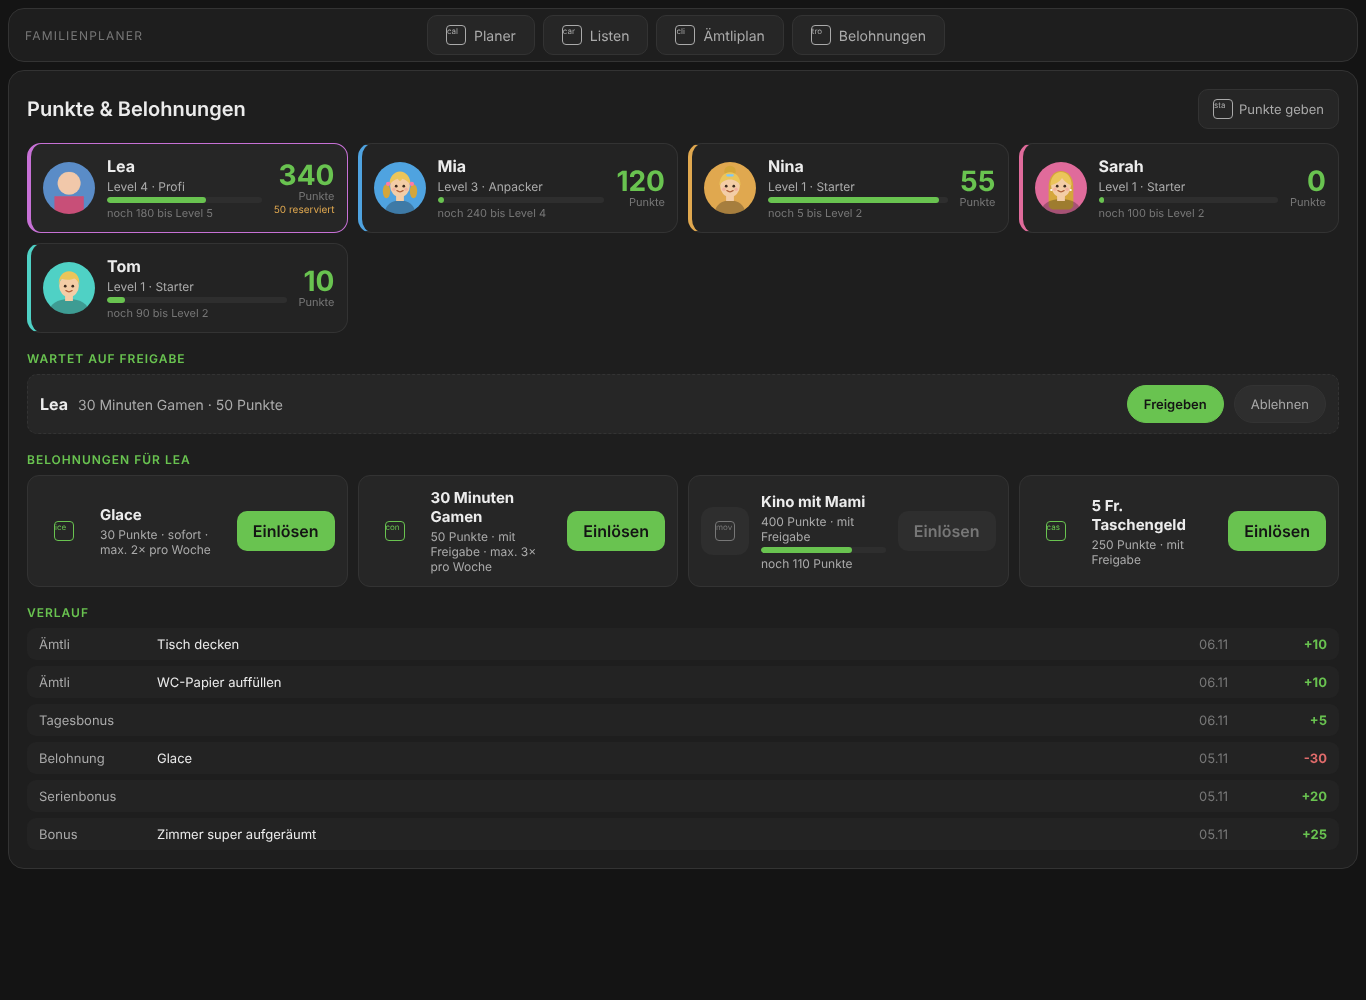
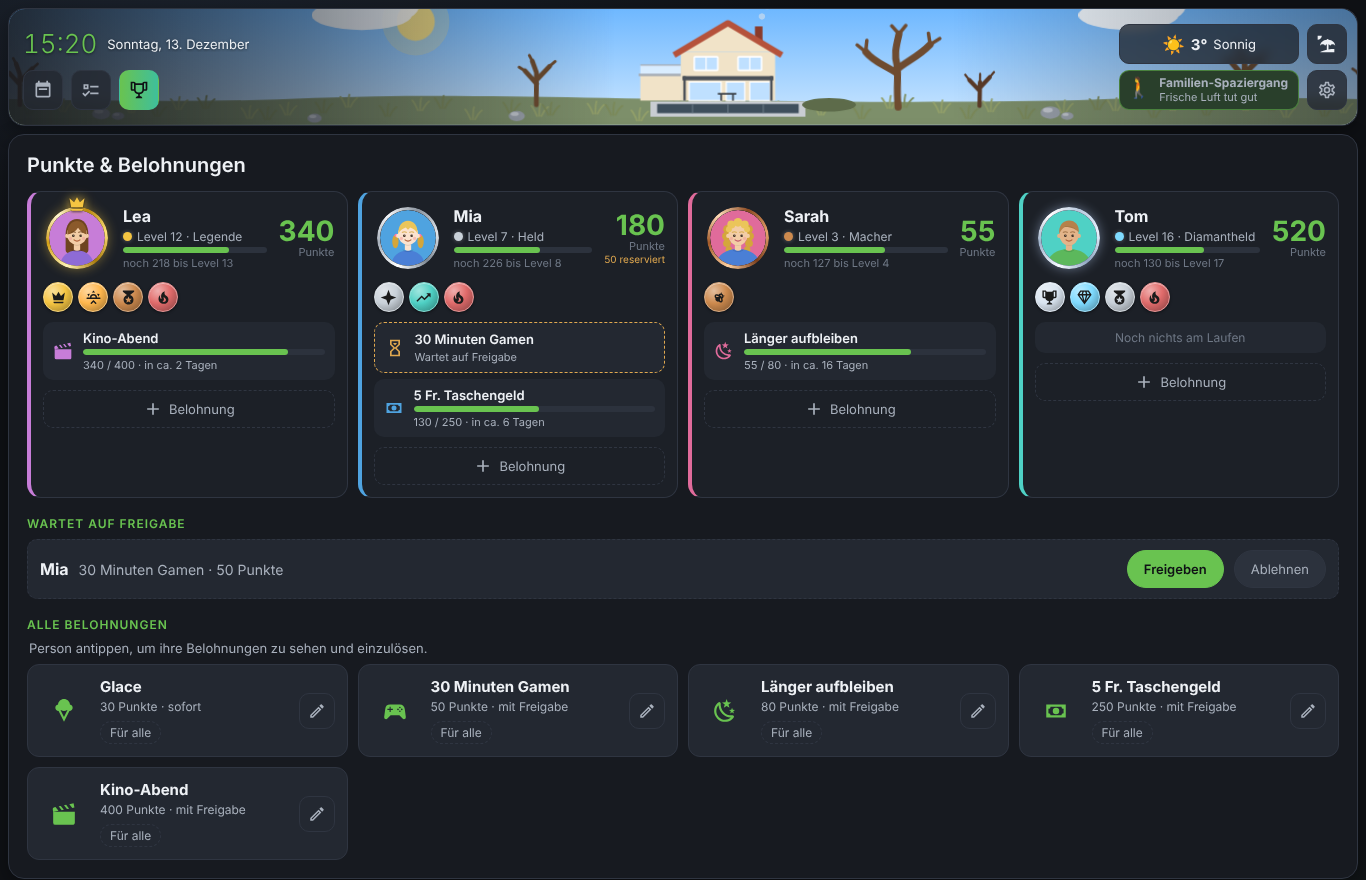
Docs: levels, level-up and easter egg, new rewards and level screenshots
Claude-Session: https://claude.ai/code/session_01SNL6Tmexe6UeWv6hf5jcH3

diff --git a/README.de.md b/README.de.md
@@ -11,8 +11,9 @@
 
 Der Familienplaner fürs Wandtablet: **Ämtli** mit Punkten und echten Belohnungen, **Termine und Stundenplan**
 jeder Person auf einen Blick, **Ferien**, die Ämtli automatisch pausieren, **Ansagen** über Alexa sobald jemand
-heimkommt – und **Einkaufs- und To-do-Listen, die sich selbst sortieren**. Alles wird in der Oberfläche
-eingerichtet, **kein YAML**.
+heimkommt – und **Einkaufs- und To-do-Listen, die sich selbst sortieren**. Oben zeigt ein **lebendiger Kopfbereich**
+euer Haus im echten Wetter und zur echten Tageszeit, durch die Jahreszeiten, Schweizer Bräuche und besondere Tage.
+Alles wird in der Oberfläche eingerichtet, **kein YAML**.
 
 🇬🇧 [English](README.md) · 🇩🇪 **Deutsch**
 
@@ -149,7 +150,12 @@ Pro Kind (oder Person, z. B. Studium/Arbeit):
 - **Zuverlässigkeit** in Prozent (30 Tage), farbiges Band pro Person.
 - **Faire Punkte** (Standard): Wer **alle** Ämtli des Tages erledigt, bekommt gleich viele Punkte (Standard 30) – egal ob 2 oder 6 Ämtli. Jedes erledigte Ämtli bringt sofort seinen Anteil; 3 von 6 erledigt = 50 % = 15 Punkte. Die Punkte im Ämtliplan wirken als Gewicht (ein schweres Ämtli mit 20 zählt doppelt so viel wie eines mit 10). Alternativ Modus *Pro Ämtli*: mehr Ämtli, mehr Punkte.
 - **Punkte**: zusätzlich **Tagesbonus** für einen ganz erledigten Tag, **Serienbonus** für jede 7-Tage-Serie. Wird ein Ämtli wieder geöffnet, werden die Punkte zurückgebucht.
-- **10 Level** von *Starter* über *Profi* und *Held* bis *Grossmeister* – mit Fortschrittsbalken. Eingelöste Punkte senken das Level nie.
+- **Level pro Schuljahr** (Saison, beginnt am 1. August – einstellbar): von *Starter* über *Held* und *Legende* bis zu herrlich verrückten Namen ab Level 21. Die Level sind in **Stufen – Bronze (1–5), Silber (6–10), Gold (11–15), Diamant (16–20) und Rubin (ab 21)**; das Level-Abzeichen am Bild zeigt die Stufenfarbe. Eingelöste Punkte senken das Level nie.
+- **Level-Aufstieg wird gefeiert**: Banner mit dem neuen Level-Namen, Konfetti in der Stufenfarbe, auf Wunsch **Bonuspunkte** (ein voller Tag pro Level, drei Tage bei einer neuen Stufe) – und jedes Level **schaltet Avatar-Extras frei** (Mütze, Goldbrille, Hamster, Babydrache, Phönix, Kronen, Flügel, Galaxie …), die nur diese Person tragen kann. Sie bleiben auch nach dem Saisonwechsel.
+- **Easter Egg:** Tipp auf das Level-Abzeichen am Bild – jede Stufe hat ihren eigenen Effekt (Funken, Goldregen, Sternexplosion mit Blitz, Rubin-Ausbruch, bei dem der Bildschirm wackelt). Direkt nach einem Aufstieg leuchtet das Abzeichen für ein paar Tipper.
+
+![Level-Aufstieg](https://raw.githubusercontent.com/magi1982/family-planer/main/docs/levels.png)
+
 - **Auszeichnungen und Pokale** – jede hat einen Zeitraum, damit niemand drei Pokale am Tag sammelt:
 
   | Auszeichnung | Gewonnen | Rahmen / Punkte (Standard) |

diff --git a/README.md b/README.md
@@ -11,7 +11,8 @@
 
 The family planner for your wall tablet: **chores** with points and real rewards, everyone's **events and school
 timetable** at a glance, **holidays** that pause chores automatically, **spoken reminders** as soon as someone comes
-home – and **shopping and to-do lists that sort themselves**. Everything is set up in the UI, **no YAML**.
+home – and **shopping and to-do lists that sort themselves**. On top, a **living header** shows your house in the real
+weather and time of day, through the seasons, Swiss customs and special days. Everything is set up in the UI, **no YAML**.
 
 🇬🇧 **English** · 🇩🇪 [Deutsch](README.de.md)
 
@@ -150,7 +151,12 @@ Per child (or person, e.g. university/work):
 - **Reliability** in percent (30 days), coloured band per person.
 - **Fair points** (default): whoever finishes **all** of their chores of the day gets the same number of points (default 30) – whether they have 2 or 6 chores. Every finished chore immediately earns its share; 3 of 6 done = 50 % = 15 points. The points in the chore plan act as weights (a heavy chore with 20 counts twice as much as one with 10). Alternatively *per chore* mode: more chores, more points.
 - **Bonuses**: additionally a **day bonus** for a fully completed day and a **streak bonus** for every 7-day streak. If a chore is reopened, its points are booked back.
-- **10 levels** from *Starter* via *Pro* and *Hero* to *Grandmaster* – with progress bar. Redeemed points never lower the level.
+- **Levels per school year** (season, starts on 1 August – adjustable): from *Starter* via *Hero* and *Legend* up to wonderfully silly names beyond level 21. The levels come in **tiers – bronze (1–5), silver (6–10), gold (11–15), diamond (16–20) and ruby (21+)**; the level badge on the picture shows the tier colour. Redeemed points never lower the level.
+- **Level-up celebration**: a banner with the new level name, confetti in the tier colour, optional **bonus points** (one full day per level, three days at a new tier) – and every level **unlocks avatar extras** (cap, golden glasses, hamster, baby dragon, phoenix, crowns, wings, galaxy …) that only this person can wear. They stay after the season reset.
+- **Easter egg:** tap the level badge on the picture – every tier has its own effect (sparks, golden rain, star explosion with flash, ruby eruption that shakes the screen). Right after a level-up the badge glows for a few taps.
+
+![Level-up](https://raw.githubusercontent.com/magi1982/family-planer/main/docs/levels.png)
+
 - **Awards and trophies** – each one has a period, so nobody collects three trophies a day:
 
   | Award | Won | Frame / points (default) |
